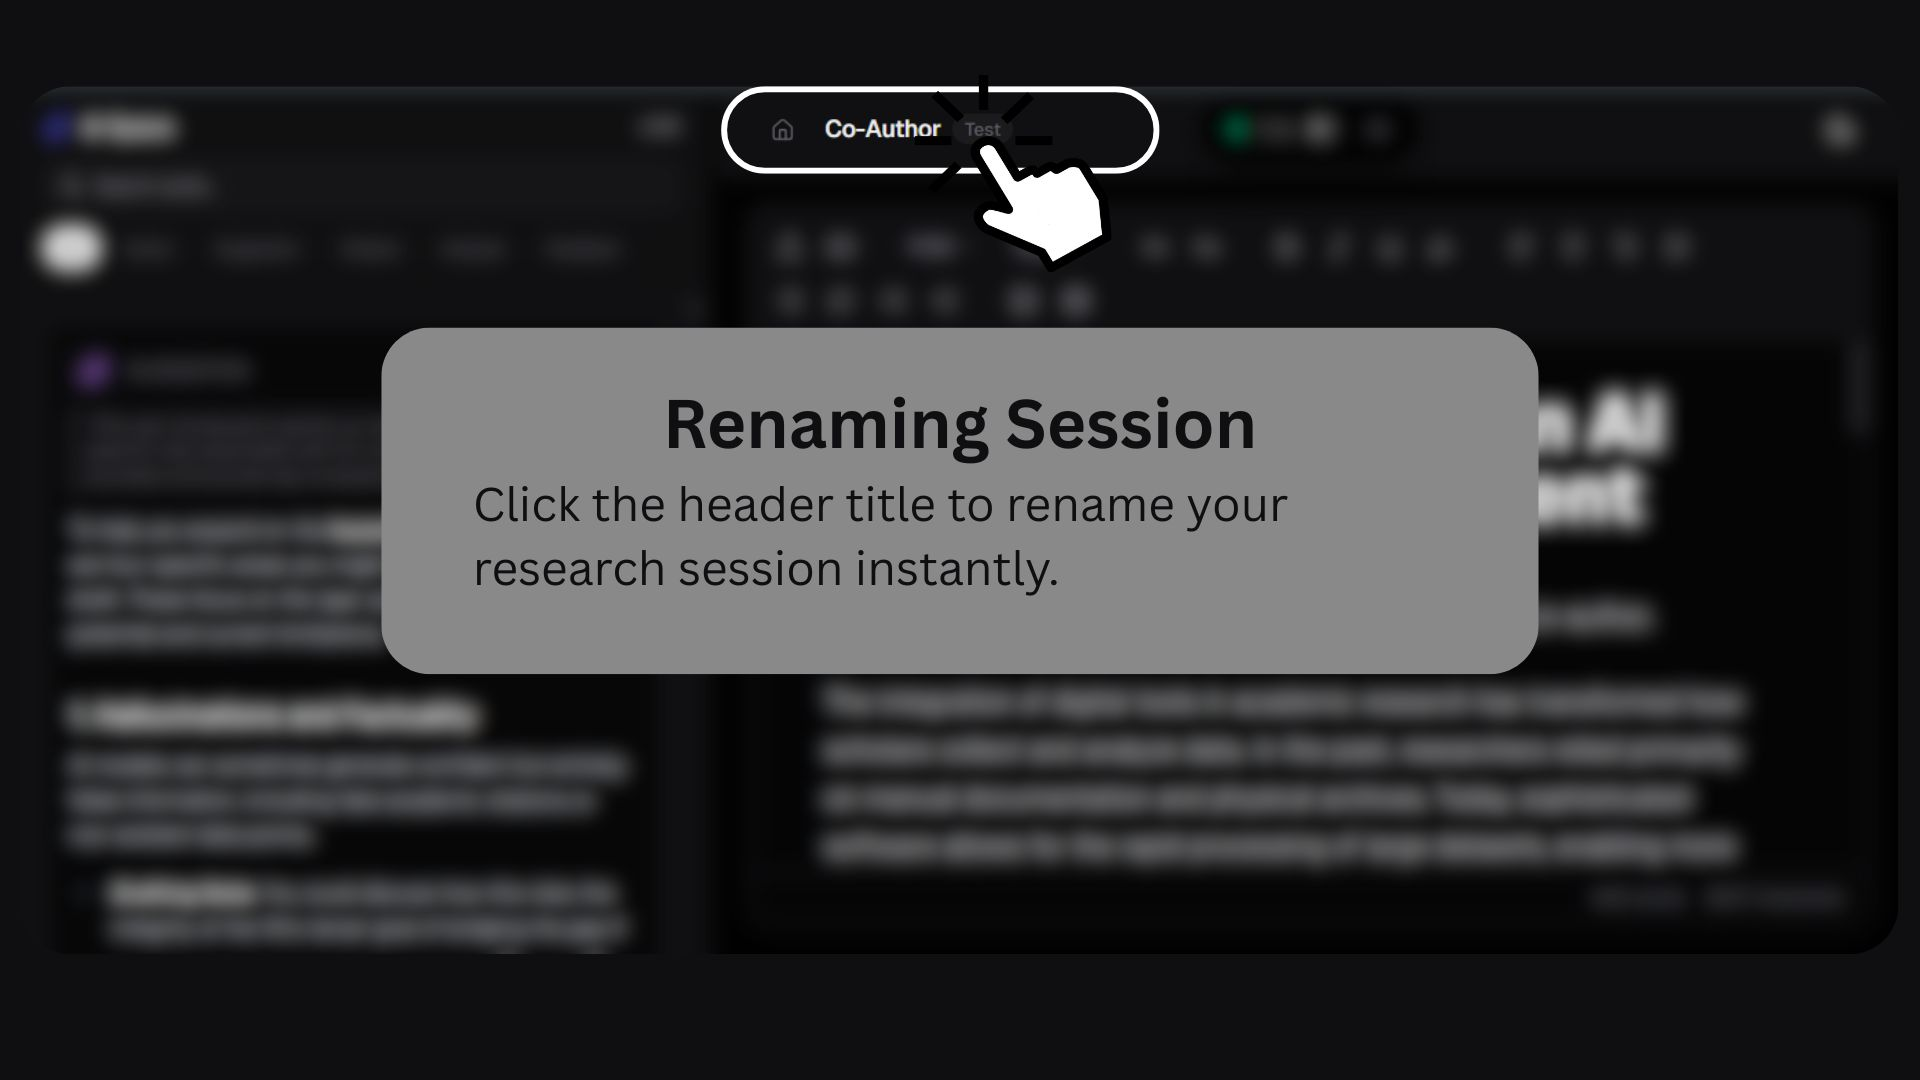
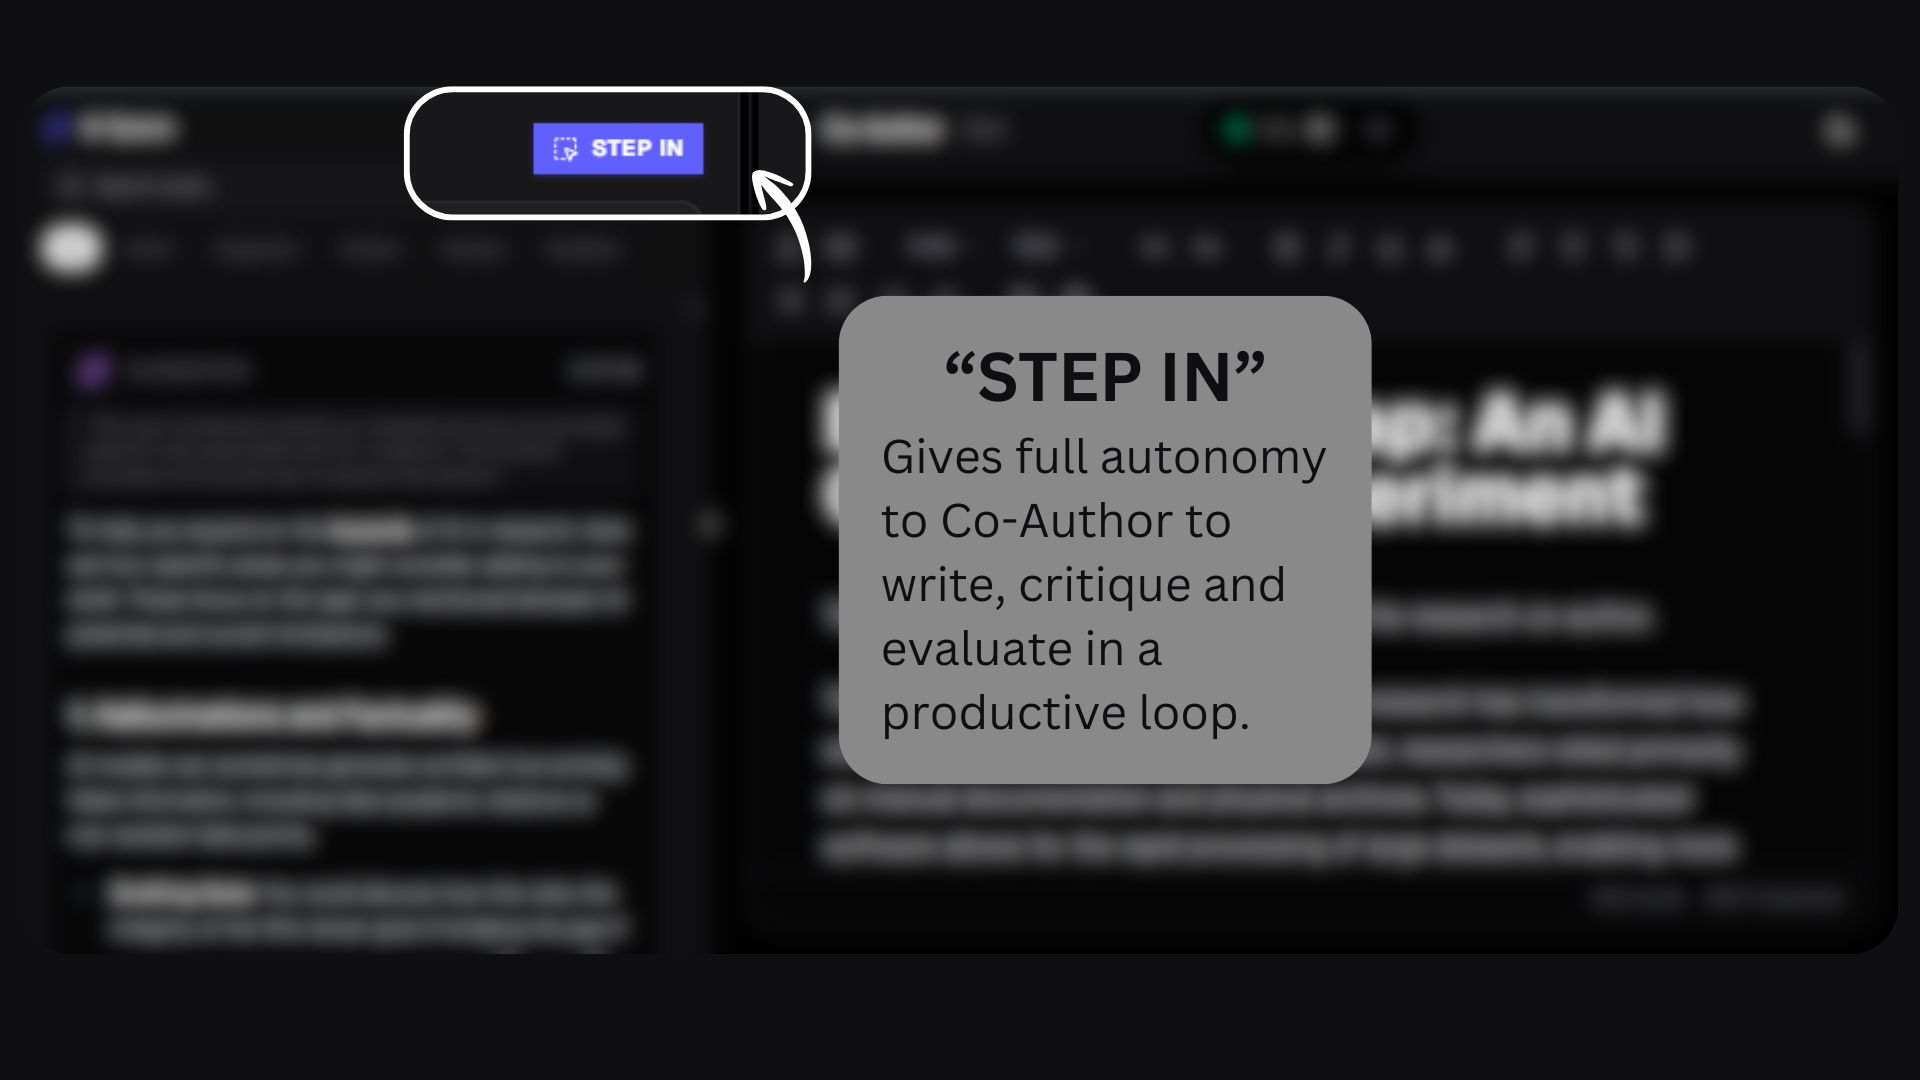
Updated the docs

diff --git a/app/page.tsx b/app/page.tsx
@@ -7,6 +7,8 @@ import { MaturityStack } from '@/components/maturity-stack';
 import { techStack } from '@/lib/landingPage/data';
 import {
   PenTool,
+  Sparkles,
+  SquareDashedMousePointerIcon,
   Mic,
   Cpu,
   Lock,
@@ -18,6 +20,7 @@ import {
 import { Button } from '@/components/ui/button';
 import Link from 'next/link';
 import { HelpButton } from '@/components/help-button';
+
 
 const App: React.FC = () => {
   const { scrollY } = useScroll();
@@ -160,6 +163,61 @@ const App: React.FC = () => {
               title="Real-time Voice"
               desc="Talk through ideas while the AI quietly handles background research using WebSockets & AudioWorklets."
             />
+          </div>
+
+          {/* Step In Feature Highlight */}
+          <div className="mb-32 mt-16 p-12 bg-zinc-900 text-white rounded-none overflow-hidden relative group">
+            <div className="absolute top-0 right-0 p-8 opacity-10 group-hover:opacity-20 transition-opacity">
+              <SquareDashedMousePointerIcon size={200} />
+            </div>
+            <div className="relative z-10 grid md:grid-cols-2 gap-12 items-center">
+              <div>
+                <h2 className="text-4xl md:text-5xl font-serif font-bold mb-6 leading-tight">
+                  Hand over the pen. <br />
+                  <span className="italic font-medium text-gray-200 underline">Step In Mode.</span>
+                </h2>
+                <p className="text-gray-400 text-lg font-light mb-8 leading-relaxed">
+                  Delegated authorship with complete transparency. For the first time, hand over full editorial control to an AI that thinks, plans, executes, and self-critiques—just like a human co-author.
+                </p>
+                <div className="flex gap-4">
+                  <Link href="/sessions">
+                    <Button variant="outline" className="text-white border-white hover:bg-white hover:text-black rounded-none font-serif font-bold px-8">Try Step In</Button>
+                  </Link>
+                </div>
+              </div>
+              <div className="bg-zinc-800/50 p-6 rounded-none border-[10px] border-white/5 backdrop-blur-[2px]">
+                <div className="space-y-4">
+                  <div className="flex items-start gap-4">
+                    <div className="w-8 h-8 rounded-full bg-indigo-500/20 flex items-center justify-center text-indigo-400 font-bold shrink-0">1</div>
+                    <div>
+                      <h4 className="font-bold text-sm mb-1 uppercase tracking-wider text-white-300">Planning</h4>
+                      <p className="text-xs text-gray-400">Reads your instructions and formulates a deep editorial strategy.</p>
+                    </div>
+                  </div>
+                  <div className="flex items-start gap-4">
+                    <div className="w-8 h-8 rounded-full bg-indigo-500/20 flex items-center justify-center text-indigo-400 font-bold shrink-0">2</div>
+                    <div>
+                      <h4 className="font-bold text-sm mb-1 uppercase tracking-wider text-white-300">Execution</h4>
+                      <p className="text-xs text-gray-400">Rewrites, continues, or polishes your work directly in the editor.</p>
+                    </div>
+                  </div>
+                  <div className="flex items-start gap-4">
+                    <div className="w-8 h-8 rounded-full bg-indigo-500/20 flex items-center justify-center text-indigo-400 font-bold shrink-0">3</div>
+                    <div>
+                      <h4 className="font-bold text-sm mb-1 uppercase tracking-wider text-white-300">Evaluation</h4>
+                      <p className="text-xs text-gray-400">Self-evaluates the output against your goals and finds weak points.</p>
+                    </div>
+                  </div>
+                  <div className="flex items-start gap-4">
+                    <div className="w-8 h-8 rounded-full bg-indigo-500/20 flex items-center justify-center text-indigo-400 font-bold shrink-0">4</div>
+                    <div>
+                      <h4 className="font-bold text-sm mb-1 uppercase tracking-wider text-white-300">Refinement</h4>
+                      <p className="text-xs text-gray-400">Makes final surgical adjustments to ensure absolute perfection.</p>
+                    </div>
+                  </div>
+                </div>
+              </div>
+            </div>
           </div>
 
           <MaturityStack />

diff --git a/components/ai-sidebar.tsx b/components/ai-sidebar.tsx
@@ -3,7 +3,21 @@
 import { useState } from 'react'
 import { cn } from "@/lib/utils"
 import { useAIStore, AICard } from "@/store/use-ai-store"
-import { Sparkles, PentagonIcon, PenToolIcon, BookOpen, MessageSquare, AlertCircle, Copy, Trash2, Check, Search, X, Zap } from "lucide-react"
+import {
+    Sparkles,
+    SquareDashedMousePointerIcon,
+    PentagonIcon,
+    PenToolIcon,
+    BookOpen,
+    MessageSquare,
+    AlertCircle,
+    Copy,
+    Trash2,
+    Check,
+    Search,
+    X,
+    Zap
+} from "lucide-react"
 import { Typewriter } from "@/components/ui/typewriter"
 import { marked } from "marked"
 
@@ -50,16 +64,16 @@ export function AISidebar({ className }: AISidebarProps) {
                             }}
                             disabled={isStepInActive}
                             className={cn(
-                                "flex items-center gap-1.5 px-2 py-1 rounded-md text-[10px] font-bold uppercase tracking-wider transition-all",
+                                "flex items-center gap-1.5 px-2 py-1 rounded-none text-[10px] font-bold uppercase tracking-wider transition-all",
                                 isStepInActive
                                     ? "bg-indigo-100 text-indigo-500 dark:bg-indigo-500/20 animate-pulse"
                                     : "bg-indigo-500 text-white hover:bg-indigo-600 shadow-sm shadow-indigo-500/20"
                             )}
                         >
-                            <Sparkles className="w-3 h-3" />
+                            <SquareDashedMousePointerIcon className="w-3 h-3" />
                             {isStepInActive ? "Stepping In..." : "Step In"}
                         </button>
-                        <span className="text-[10px] uppercase font-bold text-zinc-400 tracking-wider">Live</span>
+                        {/* <span className="text-[10px] uppercase font-bold text-zinc-400 tracking-wider">Live</span> */}
                     </div>
                 </div>
 

diff --git a/components/help-modal.tsx b/components/help-modal.tsx
@@ -9,7 +9,7 @@ interface HelpModalProps {
     onClose: () => void
 }
 
-const TOTAL_SLIDES = 13
+const TOTAL_SLIDES = 14
 
 export function HelpModal({ isOpen, onClose }: HelpModalProps) {
     const [currentSlide, setCurrentSlide] = useState(1)

diff --git a/ProjectStory.md b/ProjectStory.md
@@ -12,6 +12,8 @@ I wanted silence to mean intelligence, and intervention to mean value.
 Using a **7-Layer Maturity Stack**, the AI waits, evaluates intent, enforces cooldowns, justifies interruptions, and respects contribution limits. The result is an AI that helps with outlining, citations, analysis, paraphrasing, and research — without hijacking the writing process.  
 A real-time voice agent adds a human layer, allowing me to talk through ideas while the AI quietly handles background research.
 
+The flagship **“Step In”** feature allows for delegated authorship; with a single click, I can hand over full editorial control to the AI. It reads my instructions, develops a plan, executes the writing, evaluates its own work, and refines the draft until it meets a high standard—all while maintaining complete transparency through "Thought Cards."
+
 ---
 
 ## How I built it
@@ -35,6 +37,7 @@ Security was also critical; preventing prompt injection and malicious inputs whi
 - Building a genuinely **non-intrusive AI** that earns the right to interrupt.
 - Designing and implementing the **7-Layer Maturity Stack** from scratch.
 - Achieving smooth real-time voice interaction using AudioWorklets.
+- Implementing the **"Step In" agentic loop** (Plan -> Execute -> Evaluate -> Refine).
 - Creating a clean separation between the writing space and the AI’s contribution space.
 - Implementing a security layer that actively blocks jailbreak attempts.
 

diff --git a/README.md b/README.md
@@ -20,6 +20,7 @@ We've engineered "restraint" into the AI. It uses a 7-layer decision stack to re
 - **Cooldowns**: It won't bug you more than once every 30 seconds.
 - **Shadow Prompting**: Want manual control? Just type `[Explain this concept]` on a new line.THis is a secondary input to interact with the Ai, allowing further control and desired output.
 - **Full Control**: Use the **Pause Button** in the Dynamic Island to completely silence the AI when you need deep focus.
+- **Step In Mode**: The peak capability of Co-Author. Hand over full editorial control to the AI. It parses your instructions, plans its approach, executes the writing, and self-critiques its output to ensure maximum alignment and quality.
 
 ###  Built-in Security
 - **Sanitized Inputs**: Protects against DoS and malformed data.
